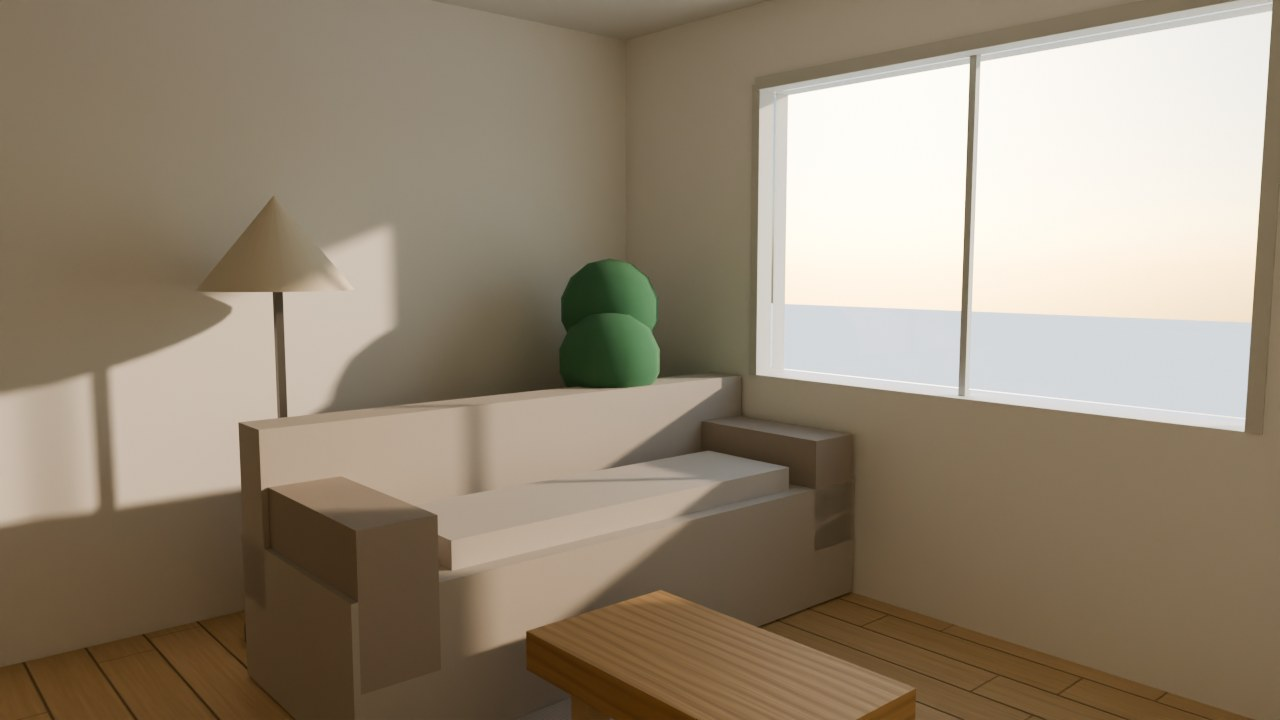
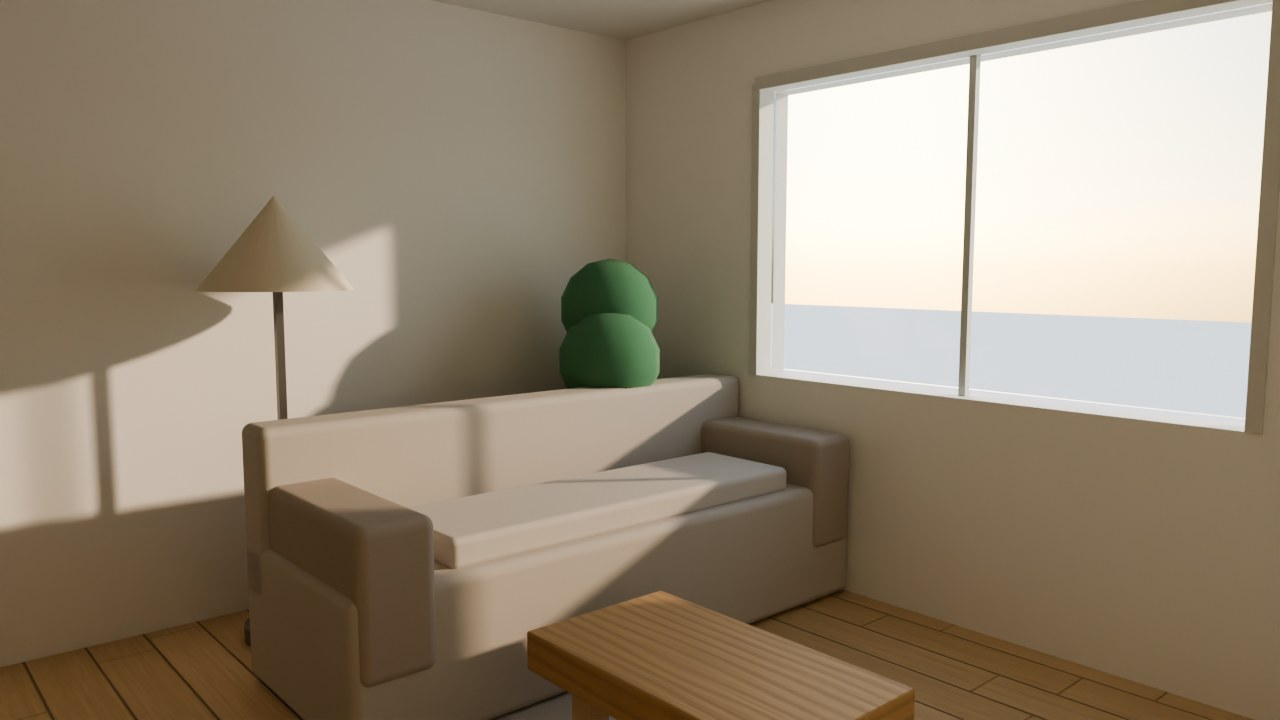
feat: bevel furniture edges in the viewer and the Cycles render
Sofa, bed, table/desk, chair and wardrobe boxes get small rounded edges
(shared physicalBox helper, also used by workshop objects) inside the same
outer size, so footprints and heights are unchanged. The GLB is exported
from the viewer scene, so Cycles renders the same mesh. The sofa seat now
sits 1.5 cm behind the arms, removing a z-fighting patch.

diff --git a/src/components/Scene3D.tsx b/src/components/Scene3D.tsx
@@ -15,23 +15,18 @@ import { registerCapture, registerSceneSource } from '../lib/sceneCapture';
 import { defaultStudio, objectCamera, physicalProperties, studioSubject } from '../lib/studioRender';
 import { textureMapsPending, useTextureLibraryRevision } from '../lib/textureCache';
 import { heightToNormal, surfaceMaps, type SurfaceKind } from '../lib/surfaceTextures';
+import { EDGE_RADIUS, physicalBox } from '../lib/boxGeometry';
 const SurfaceContext=createContext<string|undefined>(undefined);
 function textureProps(kind:SurfaceKind){const {map,normalMap,roughnessMap,metalnessMap}=surfaceMaps(kind);return {map,normalMap,roughnessMap,metalnessMap};}
 
 // `role` names the material (atelier:<role>) so the Cycles engine can recognise
 // window glass or door leaves after the scene is exported to glTF.
 // `surface` adds metre-scaled image maps (textile weave, wood grain) that also travel in the render GLB.
-function Box({position=[0,0,0],size,color,material='matte',opacity=1,finishId,role,surface}:{position?:[number,number,number];size:[number,number,number];color:string;material?:'matte'|'glass'|'metal';opacity?:number;finishId?:string;role?:string;surface?:Extract<SurfaceKind,'textile'|'woodgrain'>}) {
+// `bevel` rounds edges inside the same outer size (see EDGE_RADIUS); the GLB carries the same mesh.
+function Box({position=[0,0,0],size,color,material='matte',opacity=1,finishId,role,surface,bevel=0}:{position?:[number,number,number];size:[number,number,number];color:string;material?:'matte'|'glass'|'metal';opacity?:number;finishId?:string;role?:string;surface?:Extract<SurfaceKind,'textile'|'woodgrain'>;bevel?:number}) {
   const inherited=useContext(SurfaceContext);const id=finishId??inherited;
   const high=useEditor(state=>state.project.render?.quality==='high');
-  const geometry=useMemo(()=>{
-    const g=new THREE.BoxGeometry(...size);const uv=g.attributes.uv,normal=g.attributes.normal,pos=g.attributes.position;
-    for(let i=0;i<uv.count;i++){
-      if(Math.abs(normal.getY(i))>.5)uv.setXY(i,pos.getX(i),pos.getZ(i));
-      else if(Math.abs(normal.getX(i))>.5)uv.setXY(i,pos.getZ(i),pos.getY(i));
-      else uv.setXY(i,pos.getX(i),pos.getY(i));
-    }return g;
-  },[...size]);
+  const geometry=useMemo(()=>physicalBox(size,bevel),[...size,bevel]);
   useEffect(()=>()=>geometry.dispose(),[geometry]);
   return <mesh castShadow={material!=='glass'} receiveShadow position={position}>
     <primitive object={geometry} attach="geometry"/>{id&&material==='matte'&&opacity===1?<Suspense fallback={<meshStandardMaterial color={color}/>}><PbrSurface id={id} color={color}/></Suspense>:material==='glass'?<meshPhysicalMaterial name="atelier:glass" color={color} roughness={.08} {...physicalProperties({finish:'glass',color},high)} thickness={Math.min(...size)}/>:surface&&material==='matte'&&opacity===1?<meshStandardMaterial name={`atelier:${surface}`} color={color} roughness={1} metalness={0} {...textureProps(surface)}/>:<meshStandardMaterial name={role?`atelier:${role}`:undefined} color={color} roughness={material==='metal'?.28:.8} metalness={material==='metal'?.7:0} transparent={opacity<1} opacity={opacity}/>}
@@ -196,11 +191,11 @@ function ModuleModel({item}:{item:Furniture}){
   </group>;
 }
 function Bed({item}:{item:Furniture}){
-  return <><Box position={[0,.20,0]} size={[item.w,.35,item.d]} color="#c0a489"/>
-    <Box position={[0,.44,0]} size={[item.w*.94,.16,item.d*.94]} color={item.color} surface="textile"/>
-    <Box position={[0,.55,-item.d*.36]} size={[item.w*.8,.13,item.d*.21]} color="#f8f5f0" surface="textile"/>
-    <Box position={[0,.65,-item.d*.52]} size={[item.w,.95,.095]} color="#bc9c80"/>
-    <Box position={[0,.54,item.d*.17]} size={[item.w*.84,.08,item.d*.40]} color="#c7b4a0" surface="textile"/>
+  return <><Box position={[0,.20,0]} size={[item.w,.35,item.d]} color="#c0a489" bevel={EDGE_RADIUS.wood}/>
+    <Box position={[0,.44,0]} size={[item.w*.94,.16,item.d*.94]} color={item.color} surface="textile" bevel={EDGE_RADIUS.upholstery}/>
+    <Box position={[0,.55,-item.d*.36]} size={[item.w*.8,.13,item.d*.21]} color="#f8f5f0" surface="textile" bevel={EDGE_RADIUS.upholstery}/>
+    <Box position={[0,.65,-item.d*.52]} size={[item.w,.95,.095]} color="#bc9c80" bevel={EDGE_RADIUS.wood}/>
+    <Box position={[0,.54,item.d*.17]} size={[item.w*.84,.08,item.d*.40]} color="#c7b4a0" surface="textile" bevel={EDGE_RADIUS.cushion}/>
   </>;
 }
 function WovenRug({item}:{item:Furniture}){
@@ -244,18 +239,19 @@ function FurnitureShape({item,project,selected}:{item:Furniture;project:Project;
   switch(item.kind){
     case 'bed':case 'single-bed':return <Bed item={item}/>;
     case 'sofa':return <>
-      <Box position={[0,.27,0]} size={[w,.48,d]} color={item.color} surface="textile"/>
-      <Box position={[0,.60,-d*.37]} size={[w,.58,.19]} color={item.color} surface="textile"/>
-      {[-1,1].map(v=><Box key={v} position={[v*(w/2-.14),.48,0]} size={[.24,.45,d]} color="#c4b7a9" surface="textile"/>)}
-      <Box position={[0,.55,.13]} size={[w*.69,.10,d*.53]} color="#e4ddd3" surface="textile"/>
+      {/* Seat sits 1.5 cm behind the arms' front face: coplanar faces z-fought (flickering patch); the arms keep the full depth. */}
+      <Box position={[0,.27,0]} size={[w,.48,d-.03]} color={item.color} surface="textile" bevel={EDGE_RADIUS.upholstery}/>
+      <Box position={[0,.60,-d*.37]} size={[w,.58,.19]} color={item.color} surface="textile" bevel={EDGE_RADIUS.upholstery}/>
+      {[-1,1].map(v=><Box key={v} position={[v*(w/2-.14),.48,0]} size={[.24,.45,d]} color="#c4b7a9" surface="textile" bevel={EDGE_RADIUS.upholstery}/>)}
+      <Box position={[0,.55,.13]} size={[w*.69,.10,d*.53]} color="#e4ddd3" surface="textile" bevel={EDGE_RADIUS.cushion}/>
     </>;
     case 'table':case 'desk':case 'island':return <>
-      <Box position={[0,h-.055,0]} size={[w,.11,d]} color={item.color} surface="woodgrain"/>
-      {[-1,1].flatMap(x=>[-1,1].map(z=><Box key={`${x}-${z}`} position={[x*(w/2-.13),h/2-.03,z*(d/2-.12)]} size={[.075,h-.1,.075]} color={wood}/>))}
-      {item.kind==='island'&&<Box position={[0,h*.48,0]} size={[w*.9,h*.72,d*.75]} color="#e5e0d8"/>}
+      <Box position={[0,h-.055,0]} size={[w,.11,d]} color={item.color} surface="woodgrain" bevel={EDGE_RADIUS.wood}/>
+      {[-1,1].flatMap(x=>[-1,1].map(z=><Box key={`${x}-${z}`} position={[x*(w/2-.13),h/2-.03,z*(d/2-.12)]} size={[.075,h-.1,.075]} color={wood} bevel={EDGE_RADIUS.wood}/>))}
+      {item.kind==='island'&&<Box position={[0,h*.48,0]} size={[w*.9,h*.72,d*.75]} color="#e5e0d8" bevel={EDGE_RADIUS.carcass}/>}
     </>;
-    case 'chair':return <><Box position={[0,.45,0]} size={[w,.08,d]} color={item.color}/><Box position={[0,.70,-d*.43]} size={[w,.52,.08]} color={item.color}/>{[-1,1].flatMap(x=>[-1,1].map(z=><Box key={`${x}-${z}`} position={[x*w*.37,.22,z*d*.36]} size={[.045,.44,.045]} color={wood}/>))}</>;
-    case 'wardrobe':return <><Box position={[0,h/2,0]} size={[w,h,d]} color={item.color}/><Box position={[0,h/2,d/2+.003]} size={[.016,h*.94,.008]} color="#b1aa9f"/><Box position={[-.08,h/2,d/2+.016]} size={[.018,.19,.018]} color="#a59b8e" material="metal"/><Box position={[.08,h/2,d/2+.016]} size={[.018,.19,.018]} color="#a59b8e" material="metal"/></>;
+    case 'chair':return <><Box position={[0,.45,0]} size={[w,.08,d]} color={item.color} bevel={EDGE_RADIUS.wood}/><Box position={[0,.70,-d*.43]} size={[w,.52,.08]} color={item.color} bevel={EDGE_RADIUS.wood}/>{[-1,1].flatMap(x=>[-1,1].map(z=><Box key={`${x}-${z}`} position={[x*w*.37,.22,z*d*.36]} size={[.045,.44,.045]} color={wood} bevel={EDGE_RADIUS.wood}/>))}</>;
+    case 'wardrobe':return <><Box position={[0,h/2,0]} size={[w,h,d]} color={item.color} bevel={EDGE_RADIUS.carcass}/><Box position={[0,h/2,d/2+.003]} size={[.016,h*.94,.008]} color="#b1aa9f"/><Box position={[-.08,h/2,d/2+.016]} size={[.018,.19,.018]} color="#a59b8e" material="metal"/><Box position={[.08,h/2,d/2+.016]} size={[.018,.19,.018]} color="#a59b8e" material="metal"/></>;
     case 'kitchen':return <><Box position={[0,h/2,0]} size={[w,h,d]} color={item.color}/><Box position={[0,h-.025,0]} size={[w+.03,.05,d+.035]} color="#b2aa9e"/><Box position={[0,h*.45,d/2+.004]} size={[.02,h*.83,.015]} color="#c9c3b7"/>
       <Box position={[-w*.24,h+.006,0]} size={[.55,.012,.37]} color="#3b3c3c"/>
       <Box position={[w*.24,h+.005,0]} size={[.48,.012,.33]} color="#9da6a4"/>

diff --git a/src/lib/boxGeometry.ts b/src/lib/boxGeometry.ts
@@ -1,0 +1,33 @@
+import * as THREE from 'three';
+import { RoundedBoxGeometry } from 'three/examples/jsm/geometries/RoundedBoxGeometry.js';
+
+/**
+ * Edge radii (metres) for the editor's parametric furniture. Real furniture never has
+ * razor-sharp edges: the soft highlight along a rounded edge is what makes a box read as
+ * an object under Cycles' path tracing. Radii stay inside the outer envelope, so plan
+ * footprints, heights and clearances are unchanged.
+ */
+export const EDGE_RADIUS={upholstery:.035,cushion:.025,wood:.006,carcass:.004} as const;
+
+/** Radius actually applied: never more than 45 % of the smallest side, so thin parts keep flat faces. */
+export const bevelRadius=(size:readonly [number,number,number],radius:number)=>Math.max(0,Math.min(radius,...size.map(side=>side*.45)));
+
+/**
+ * Box of exactly `size` (width, height, depth) centred on the origin. With a radius the
+ * edges and corners are rounded inside that envelope (smooth normals, three segments per
+ * arc). UVs are projected in metres along the dominant normal so textile weave and wood
+ * grain keep their real-world scale on every face, in the viewer and in the render GLB.
+ */
+export function physicalBox(size:readonly [number,number,number],radius=0):THREE.BufferGeometry{
+  const r=bevelRadius(size,radius);
+  const geometry=r>0?new RoundedBoxGeometry(size[0],size[1],size[2],3,r):new THREE.BoxGeometry(size[0],size[1],size[2]);
+  const uv=geometry.attributes.uv,pos=geometry.attributes.position,normal=geometry.attributes.normal;
+  for(let i=0;i<uv.count;i++){
+    const x=Math.abs(normal.getX(i)),y=Math.abs(normal.getY(i)),z=Math.abs(normal.getZ(i));
+    if(y>=x&&y>=z)uv.setXY(i,pos.getX(i),pos.getZ(i));
+    else if(x>=z)uv.setXY(i,pos.getZ(i),pos.getY(i));
+    else uv.setXY(i,pos.getX(i),pos.getY(i));
+  }
+  uv.needsUpdate=true;
+  return geometry;
+}

diff --git a/src/lib/workshopObjects.ts b/src/lib/workshopObjects.ts
@@ -1,5 +1,5 @@
 import * as THREE from 'three';
-import { RoundedBoxGeometry } from 'three/examples/jsm/geometries/RoundedBoxGeometry.js';
+import { physicalBox } from './boxGeometry';
 import { GLTFExporter } from 'three/examples/jsm/exporters/GLTFExporter.js';
 import { createMaterialMaps } from './proceduralTextures';
 
@@ -29,16 +29,8 @@ export function buildWorkshopObject(recipe:ObjectRecipe):THREE.Group {
     const mesh=new THREE.Mesh(geometry,material);mesh.name=name;mesh.position.set(...position);mesh.castShadow=mesh.receiveShadow=true;group.add(mesh);return mesh;
   };
   const box=(name:string,size:[number,number,number],position:[number,number,number],material:THREE.Material,radius=.012)=>{
-    const geometry=new RoundedBoxGeometry(...size,3,Math.min(radius,...size.map(value=>value*.45)));
-    // Project physical UVs, preserving repeat size across objects of different dimensions.
-    const uv=geometry.attributes.uv,pos=geometry.attributes.position,normal=geometry.attributes.normal;
-    for(let i=0;i<uv.count;i++){
-      const n=[Math.abs(normal.getX(i)),Math.abs(normal.getY(i)),Math.abs(normal.getZ(i))];
-      if(n[1]>=n[0]&&n[1]>=n[2])uv.setXY(i,pos.getX(i),pos.getZ(i));
-      else if(n[0]>=n[2])uv.setXY(i,pos.getZ(i),pos.getY(i));
-      else uv.setXY(i,pos.getX(i),pos.getY(i));
-    }
-    return add(name,geometry,material,position);
+    // Physical UVs keep the same repeat size across objects of different dimensions.
+    return add(name,physicalBox(size,radius),material,position);
   };
   const cylinder=(name:string,radius:number,height:number,position:[number,number,number],material:THREE.Material)=>add(name,new THREE.CylinderGeometry(radius,radius,height,24),material,position);
   const {w,d,h}=recipe;

diff --git a/src/__tests__/box-geometry.test.ts b/src/__tests__/box-geometry.test.ts
@@ -1,0 +1,36 @@
+import { describe, expect, it } from 'vitest';
+import * as THREE from 'three';
+import { EDGE_RADIUS, bevelRadius, physicalBox } from '../lib/boxGeometry';
+
+const extent=(g:THREE.BufferGeometry)=>{g.computeBoundingBox();const s=new THREE.Vector3();g.boundingBox!.getSize(s);return [s.x,s.y,s.z];};
+
+describe('physicalBox', () => {
+  it('keeps the exact outer size when edges are bevelled', () => {
+    for(const [size,r] of [[[2.1,.48,.9],EDGE_RADIUS.upholstery],[[1.6,.11,.9],EDGE_RADIUS.wood],[[.075,.65,.075],EDGE_RADIUS.wood],[[1.2,2.1,.6],EDGE_RADIUS.carcass]] as const){
+      const g=physicalBox(size,r);
+      extent(g).forEach((v,i)=>expect(v).toBeCloseTo(size[i],6));
+      expect(g.attributes.position.count).toBeGreaterThan(24);
+    }
+  });
+
+  it('clamps the radius to 45 % of the thinnest side', () => {
+    expect(bevelRadius([1,.02,1],.035)).toBeCloseTo(.009,9);
+    expect(bevelRadius([1,1,1],.035)).toBe(.035);
+    expect(bevelRadius([1,1,1],-1)).toBe(0);
+    extent(physicalBox([1,.02,1],.035)).forEach((v,i)=>expect(v).toBeCloseTo([1,.02,1][i],6));
+  });
+
+  it('is a plain box without radius and projects UVs in metres', () => {
+    const g=physicalBox([2,1,.5]);
+    expect(g.attributes.position.count).toBe(24);
+    const uv=g.attributes.uv;let maxU=0;
+    for(let i=0;i<uv.count;i++)maxU=Math.max(maxU,Math.abs(uv.getX(i)));
+    expect(maxU).toBeCloseTo(1,6); // half of the 2 m width, centred on the origin
+  });
+
+  it('has smooth normals on the rounded edges', () => {
+    const n=physicalBox([1,1,1],.1).attributes.normal;let diagonal=0;
+    for(let i=0;i<n.count;i++)if(Math.abs(n.getX(i))>.2&&Math.abs(n.getY(i))>.2)diagonal++;
+    expect(diagonal).toBeGreaterThan(0);
+  });
+});
